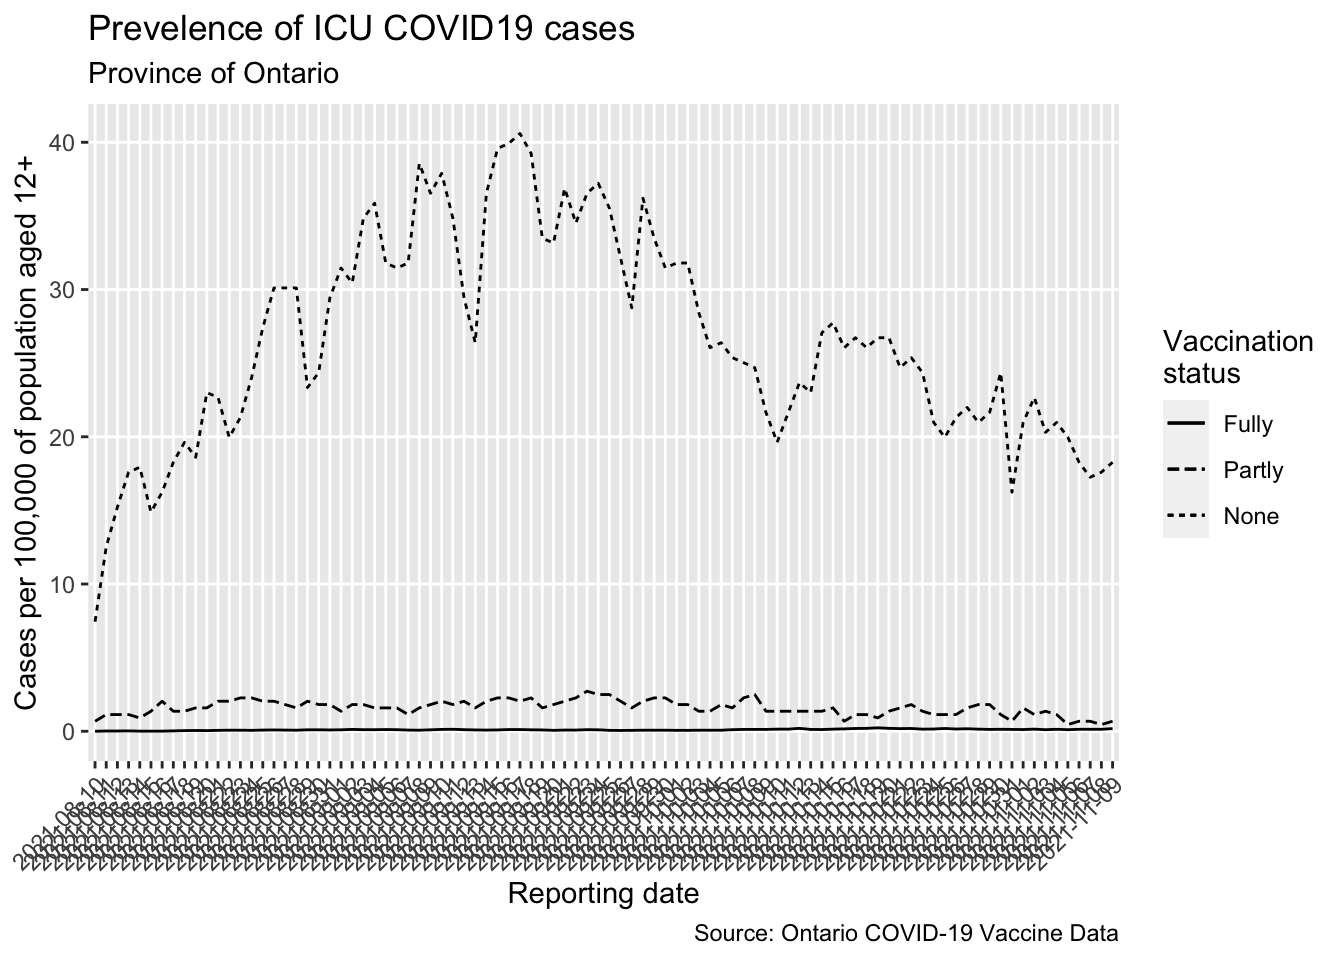
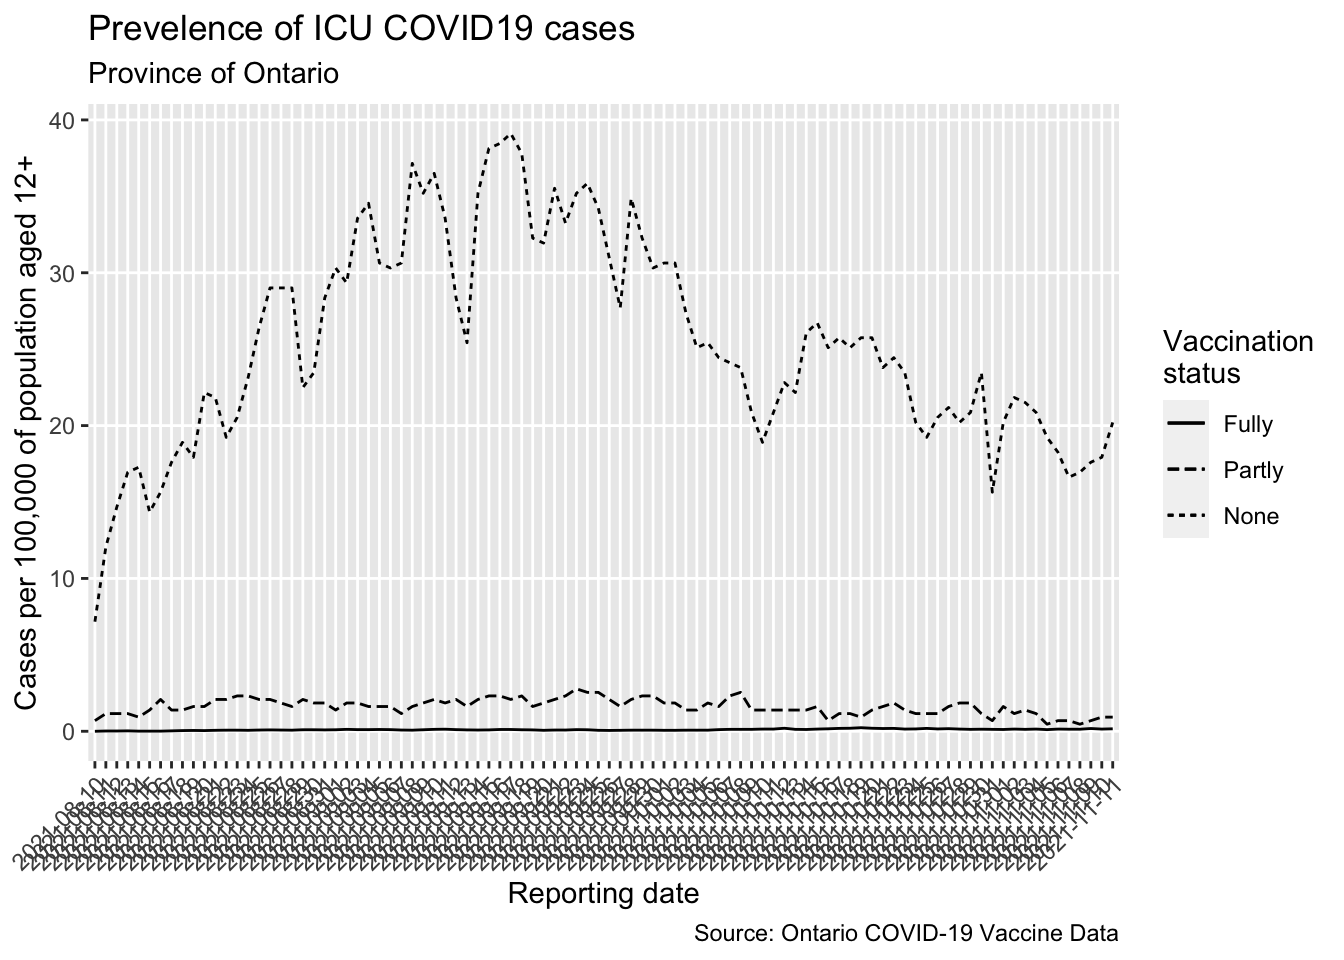
2021-11-11 updata and vaccine effectiveness
Added vaccine effectiveness visualisation.

diff --git a/docs/index.html b/docs/index.html
@@ -10,7 +10,7 @@
 
 
 
-<meta name="date" content="2021-11-09" />
+<meta name="date" content="2021-11-11" />
 
 <title>Ontario COVID-19 vaccination progress</title>
 
@@ -190,7 +190,7 @@ summary {
 
 
 <h1 class="title toc-ignore">Ontario COVID-19 vaccination progress</h1>
-<h4 class="date">2021-11-09</h4>
+<h4 class="date">2021-11-11</h4>
 
 </div>
 
@@ -210,10 +210,10 @@ summary {
 </thead>
 <tbody>
 <tr class="odd">
-<td align="center">2021-11-09</td>
-<td align="center">11098007</td>
-<td align="center">440995</td>
-<td align="center">11539002</td>
+<td align="center">2021-11-11</td>
+<td align="center">11117999</td>
+<td align="center">432230</td>
+<td align="center">11550229</td>
 </tr>
 </tbody>
 </table>
@@ -244,9 +244,9 @@ summary {
 </thead>
 <tbody>
 <tr class="odd">
-<td align="center">2021-11-09</td>
-<td align="center">13049</td>
-<td align="center">22637009</td>
+<td align="center">2021-11-11</td>
+<td align="center">15962</td>
+<td align="center">22668228</td>
 </tr>
 </tbody>
 </table>
@@ -264,6 +264,16 @@ summary {
 <div id="prevalence-rates-per-100000" class="section level3">
 <h3>Prevalence rates per 100,000</h3>
 <p><img src="index_files/figure-html/visualisation%20for%20all%20breakthrough%20cases-1.png" width="672" /></p>
+</div>
+<div id="vaccine-effectiveness" class="section level3">
+<h3>Vaccine effectiveness</h3>
+<p>Vaccine effectiveness is the percentage reduction of disease cases in a vaccinated group of people compared to an unvaccinated group.</p>
+<p><span class="math display">\[VE = \frac{ARU - ARV}{ARU} * 100\]</span></p>
+<p>Where<br />
+VE = Vaccine effectiveness,<br />
+ARU = Attack rate of unvaccinated people (new cases in unvaccinated / total unvaccinated),<br />
+ARV = Attack rate of vaccinated people (new cases in vaccinated / total vaccinated)</p>
+<p><img src="index_files/figure-html/visualisation%20of%20vaccine%20effectiveness-1.png" width="672" /></p>
 </div>
 </div>
 <div id="citations" class="section level2">

diff --git a/docs/ontario-covid-vaccinations.html b/docs/ontario-covid-vaccinations.html
@@ -207,10 +207,10 @@ summary {
 </thead>
 <tbody>
 <tr class="odd">
-<td align="center">2021-11-09</td>
-<td align="center">11098007</td>
-<td align="center">440995</td>
-<td align="center">11539002</td>
+<td align="center">2021-11-11</td>
+<td align="center">11117999</td>
+<td align="center">432230</td>
+<td align="center">11550229</td>
 </tr>
 </tbody>
 </table>
@@ -241,9 +241,9 @@ summary {
 </thead>
 <tbody>
 <tr class="odd">
-<td align="center">2021-11-09</td>
-<td align="center">13049</td>
-<td align="center">22637009</td>
+<td align="center">2021-11-11</td>
+<td align="center">15962</td>
+<td align="center">22668228</td>
 </tr>
 </tbody>
 </table>
@@ -261,6 +261,16 @@ summary {
 <div id="prevalence-rates-per-100000" class="section level3">
 <h3>Prevalence rates per 100,000</h3>
 <p><img src="ontario-covid-vaccinations_files/figure-html/visualisation%20for%20all%20breakthrough%20cases-1.png" width="672" /></p>
+</div>
+<div id="vaccine-effectiveness" class="section level3">
+<h3>Vaccine effectiveness</h3>
+<p>Vaccine effectiveness is the percentage reduction of disease cases in a vaccinated group of people compared to an unvaccinated group.</p>
+<p><span class="math display">\[VE = \frac{ARU - ARV}{ARU} * 100\]</span></p>
+<p>Where<br />
+VE = Vaccine effectiveness,<br />
+ARU = Attack rate of unvaccinated people (new cases in unvaccinated / total unvaccinated),<br />
+ARV = Attack rate of vaccinated people (new cases in vaccinated / total vaccinated)</p>
+<p><img src="ontario-covid-vaccinations_files/figure-html/visualisation%20of%20vaccine%20effectiveness-1.png" width="672" /></p>
 </div>
 </div>
 <div id="citations" class="section level2">
